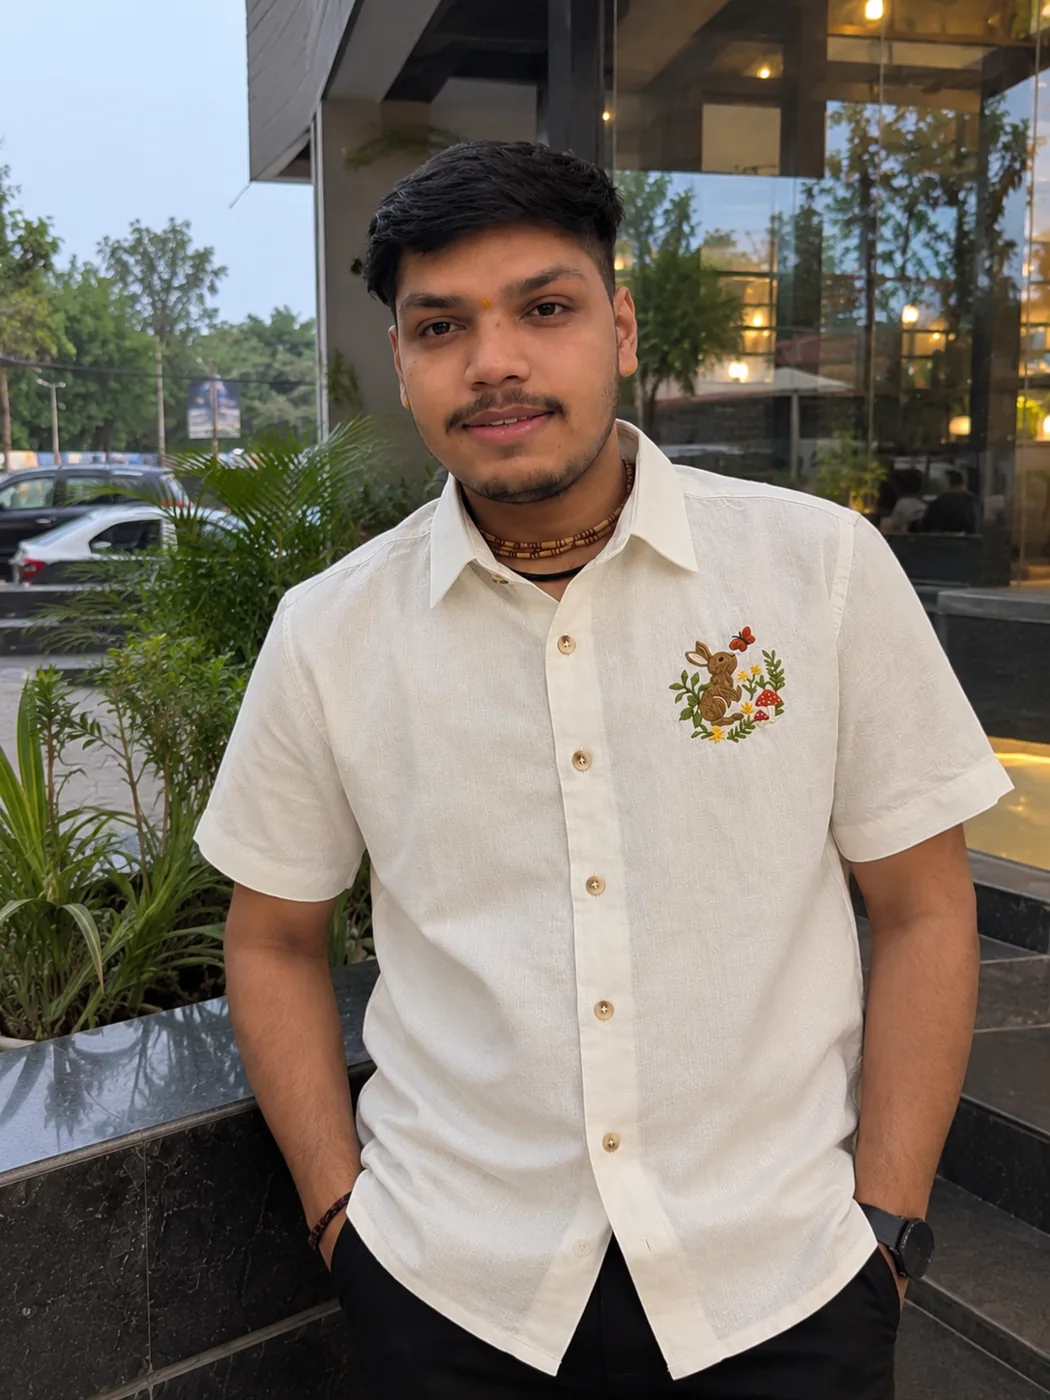
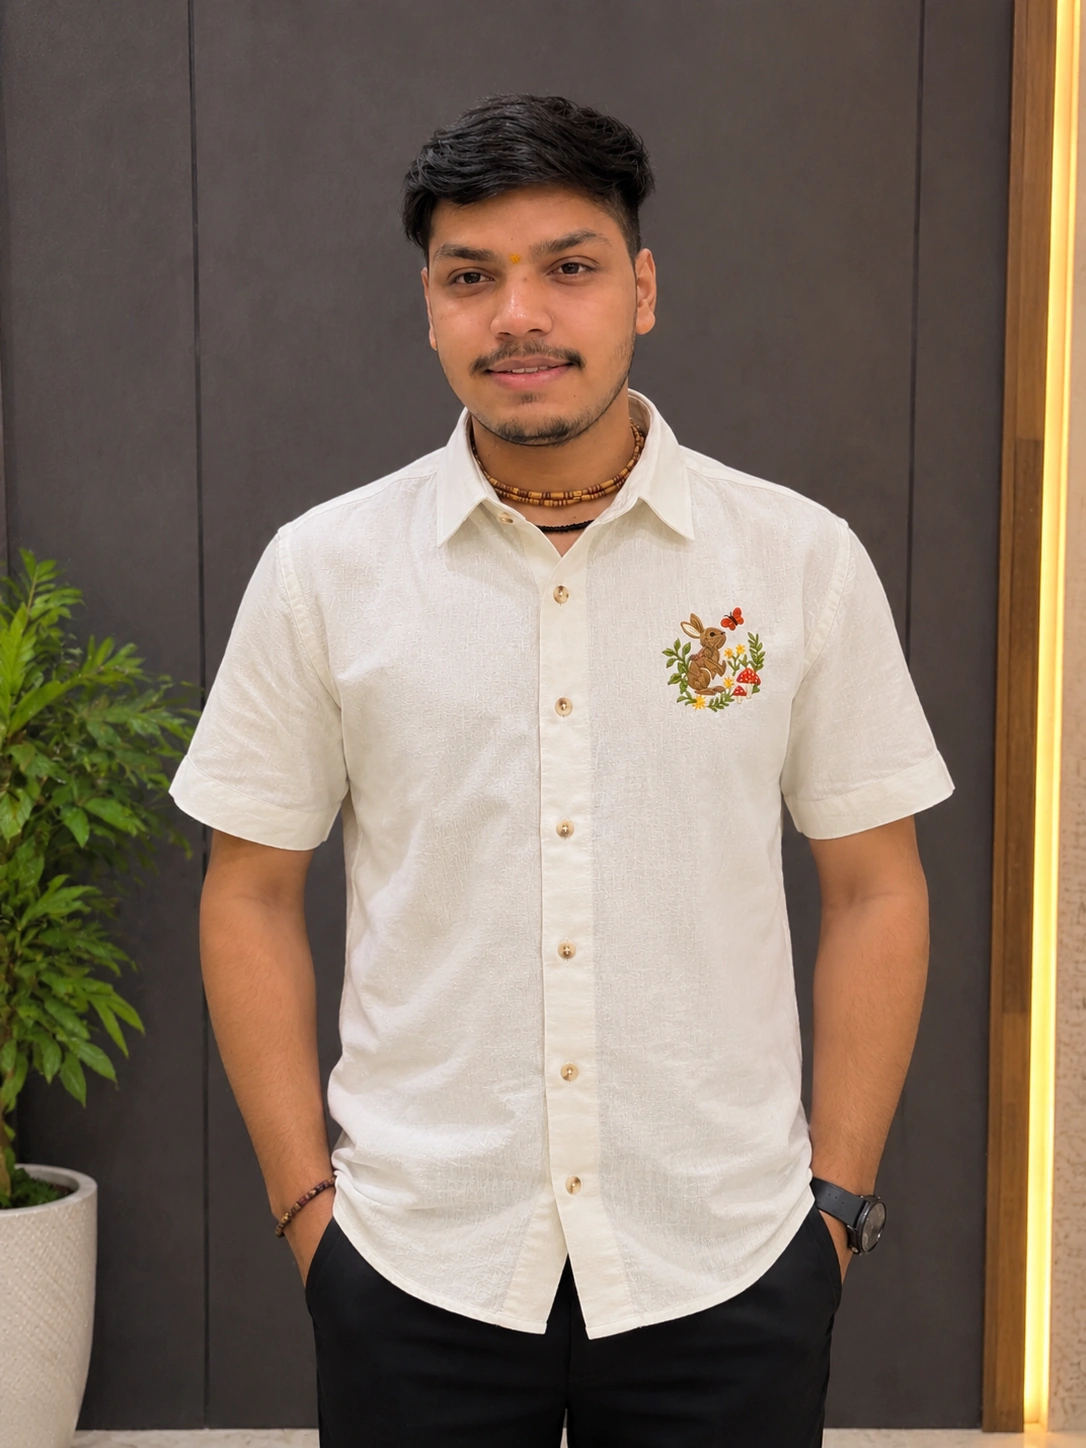
minor bug fix

diff --git a/src/styles.css b/src/styles.css
@@ -1291,6 +1291,12 @@ img {
   }
 }
 @media (max-width: 620px) {
+  .product-image > img {
+    object-fit: contain;
+  }
+  .product-image:hover > img {
+    transform: none;
+  }
   .announcement {
     font-size: 9px;
   }
